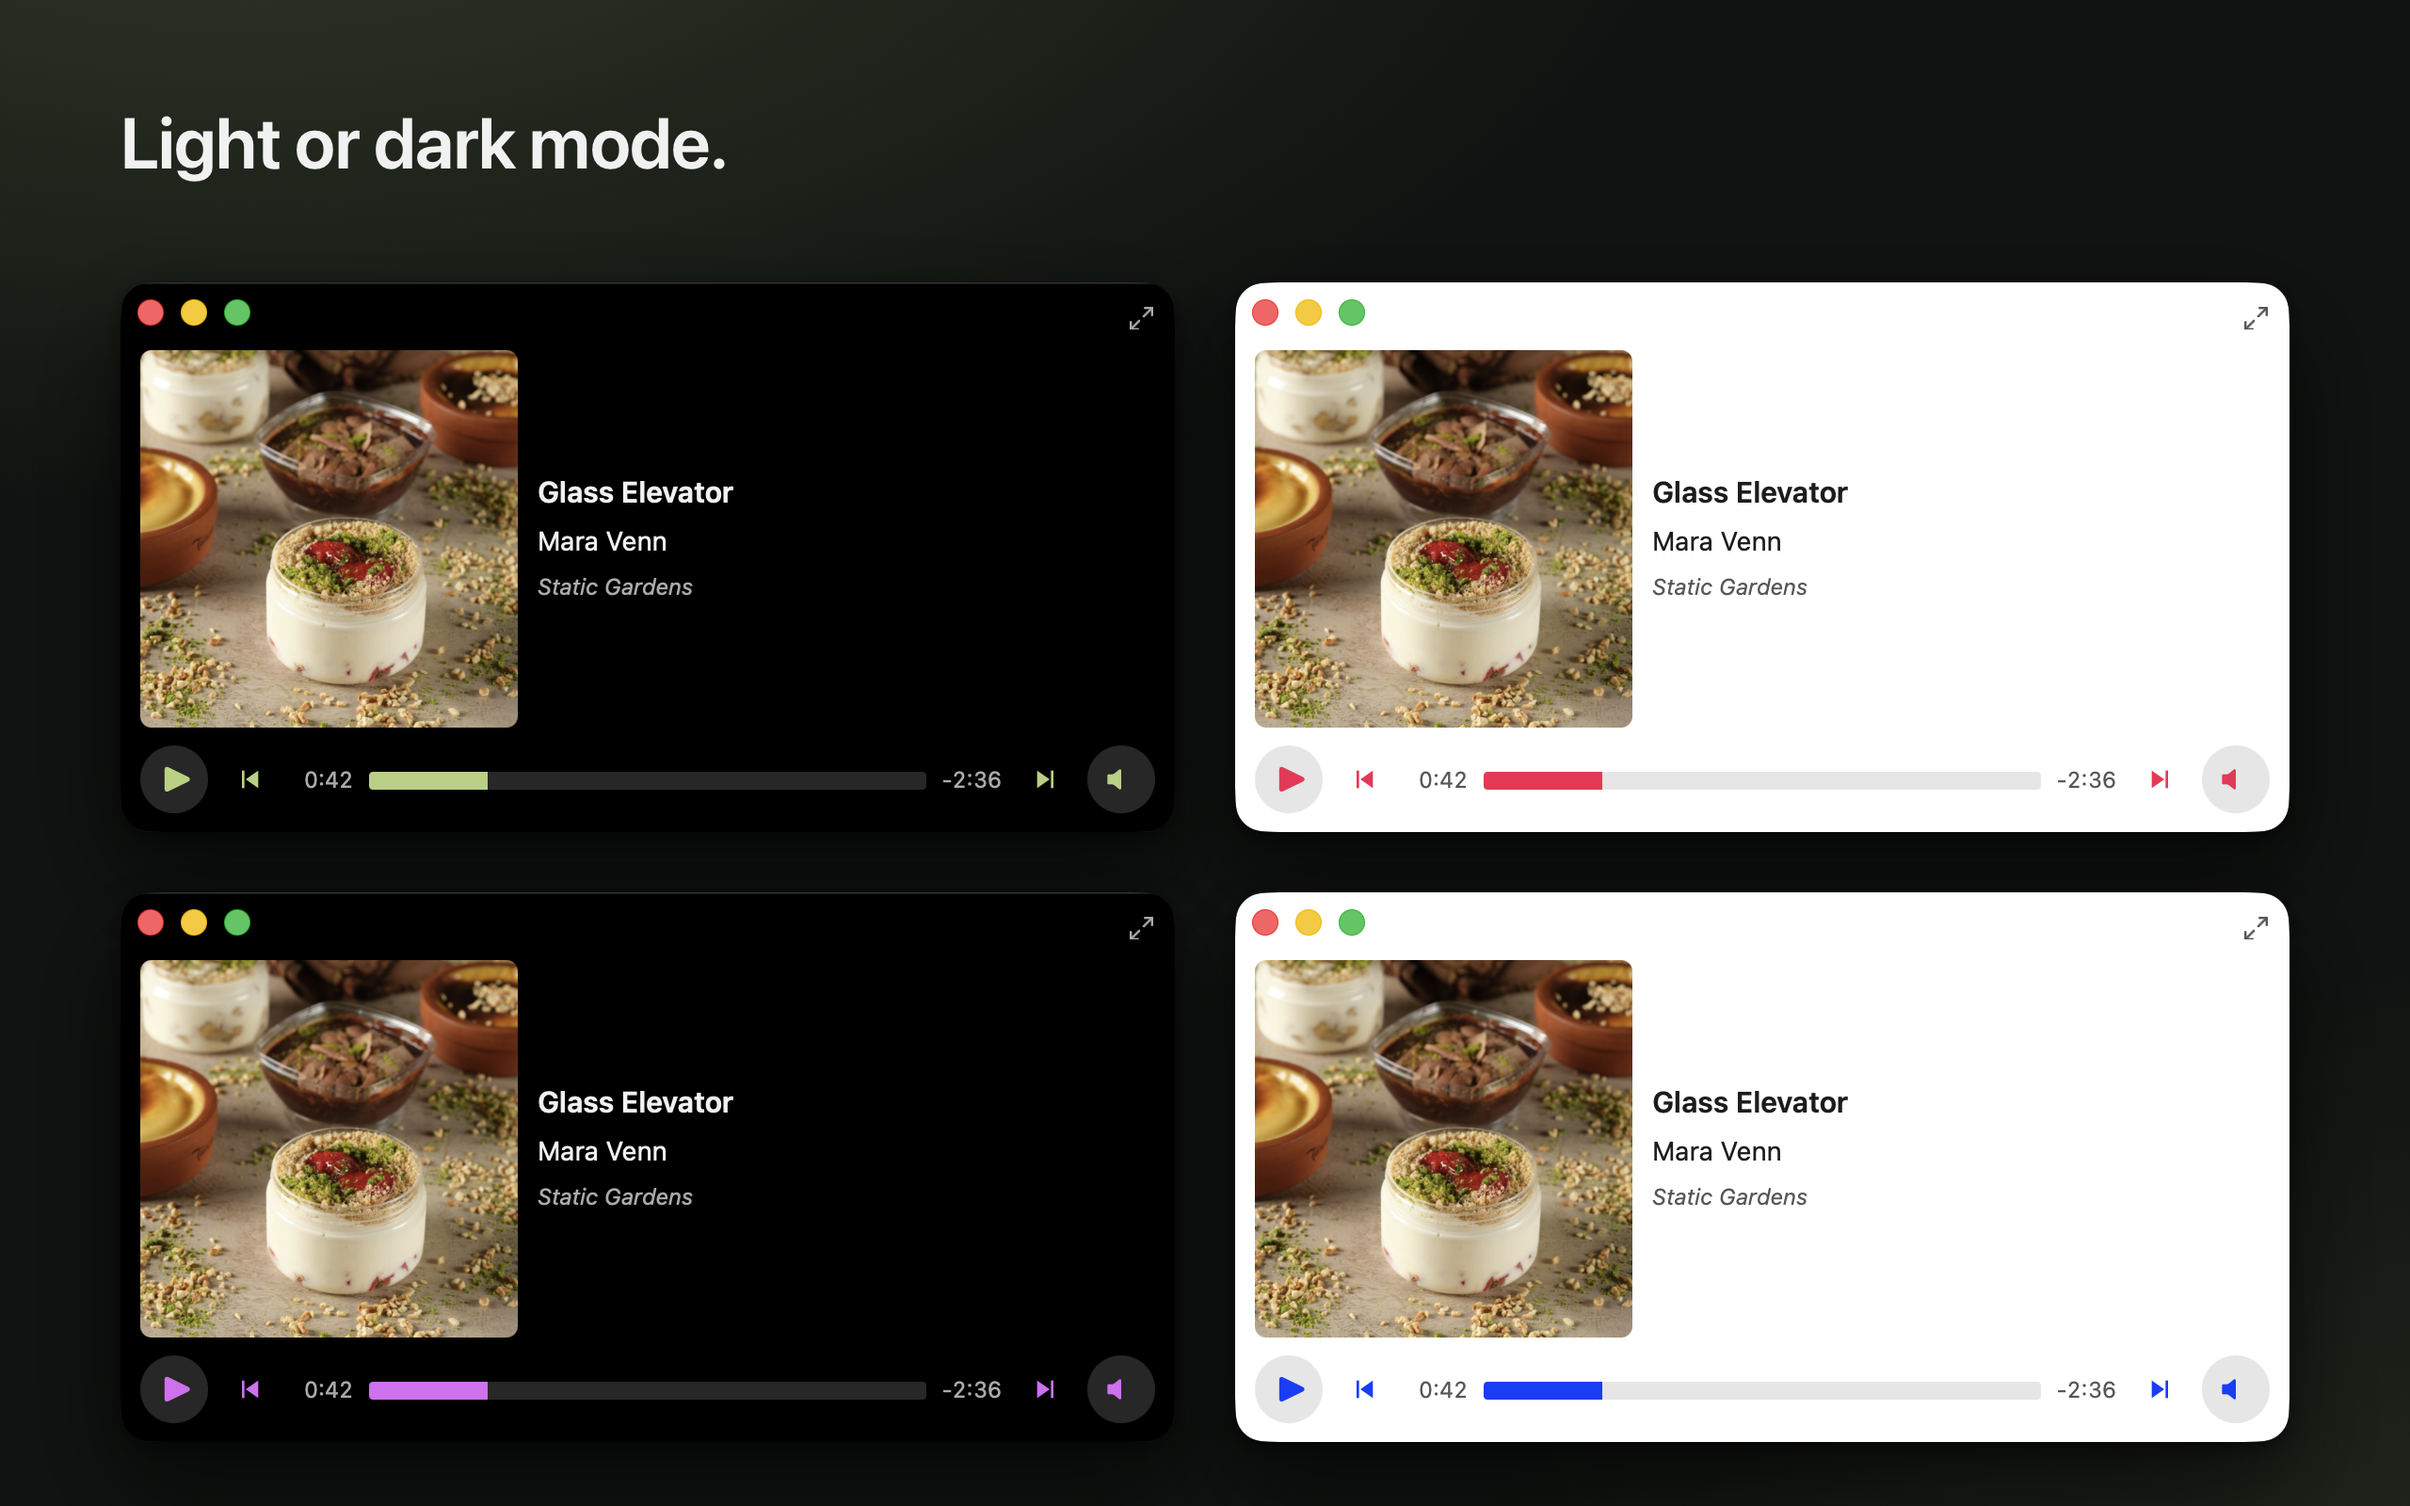
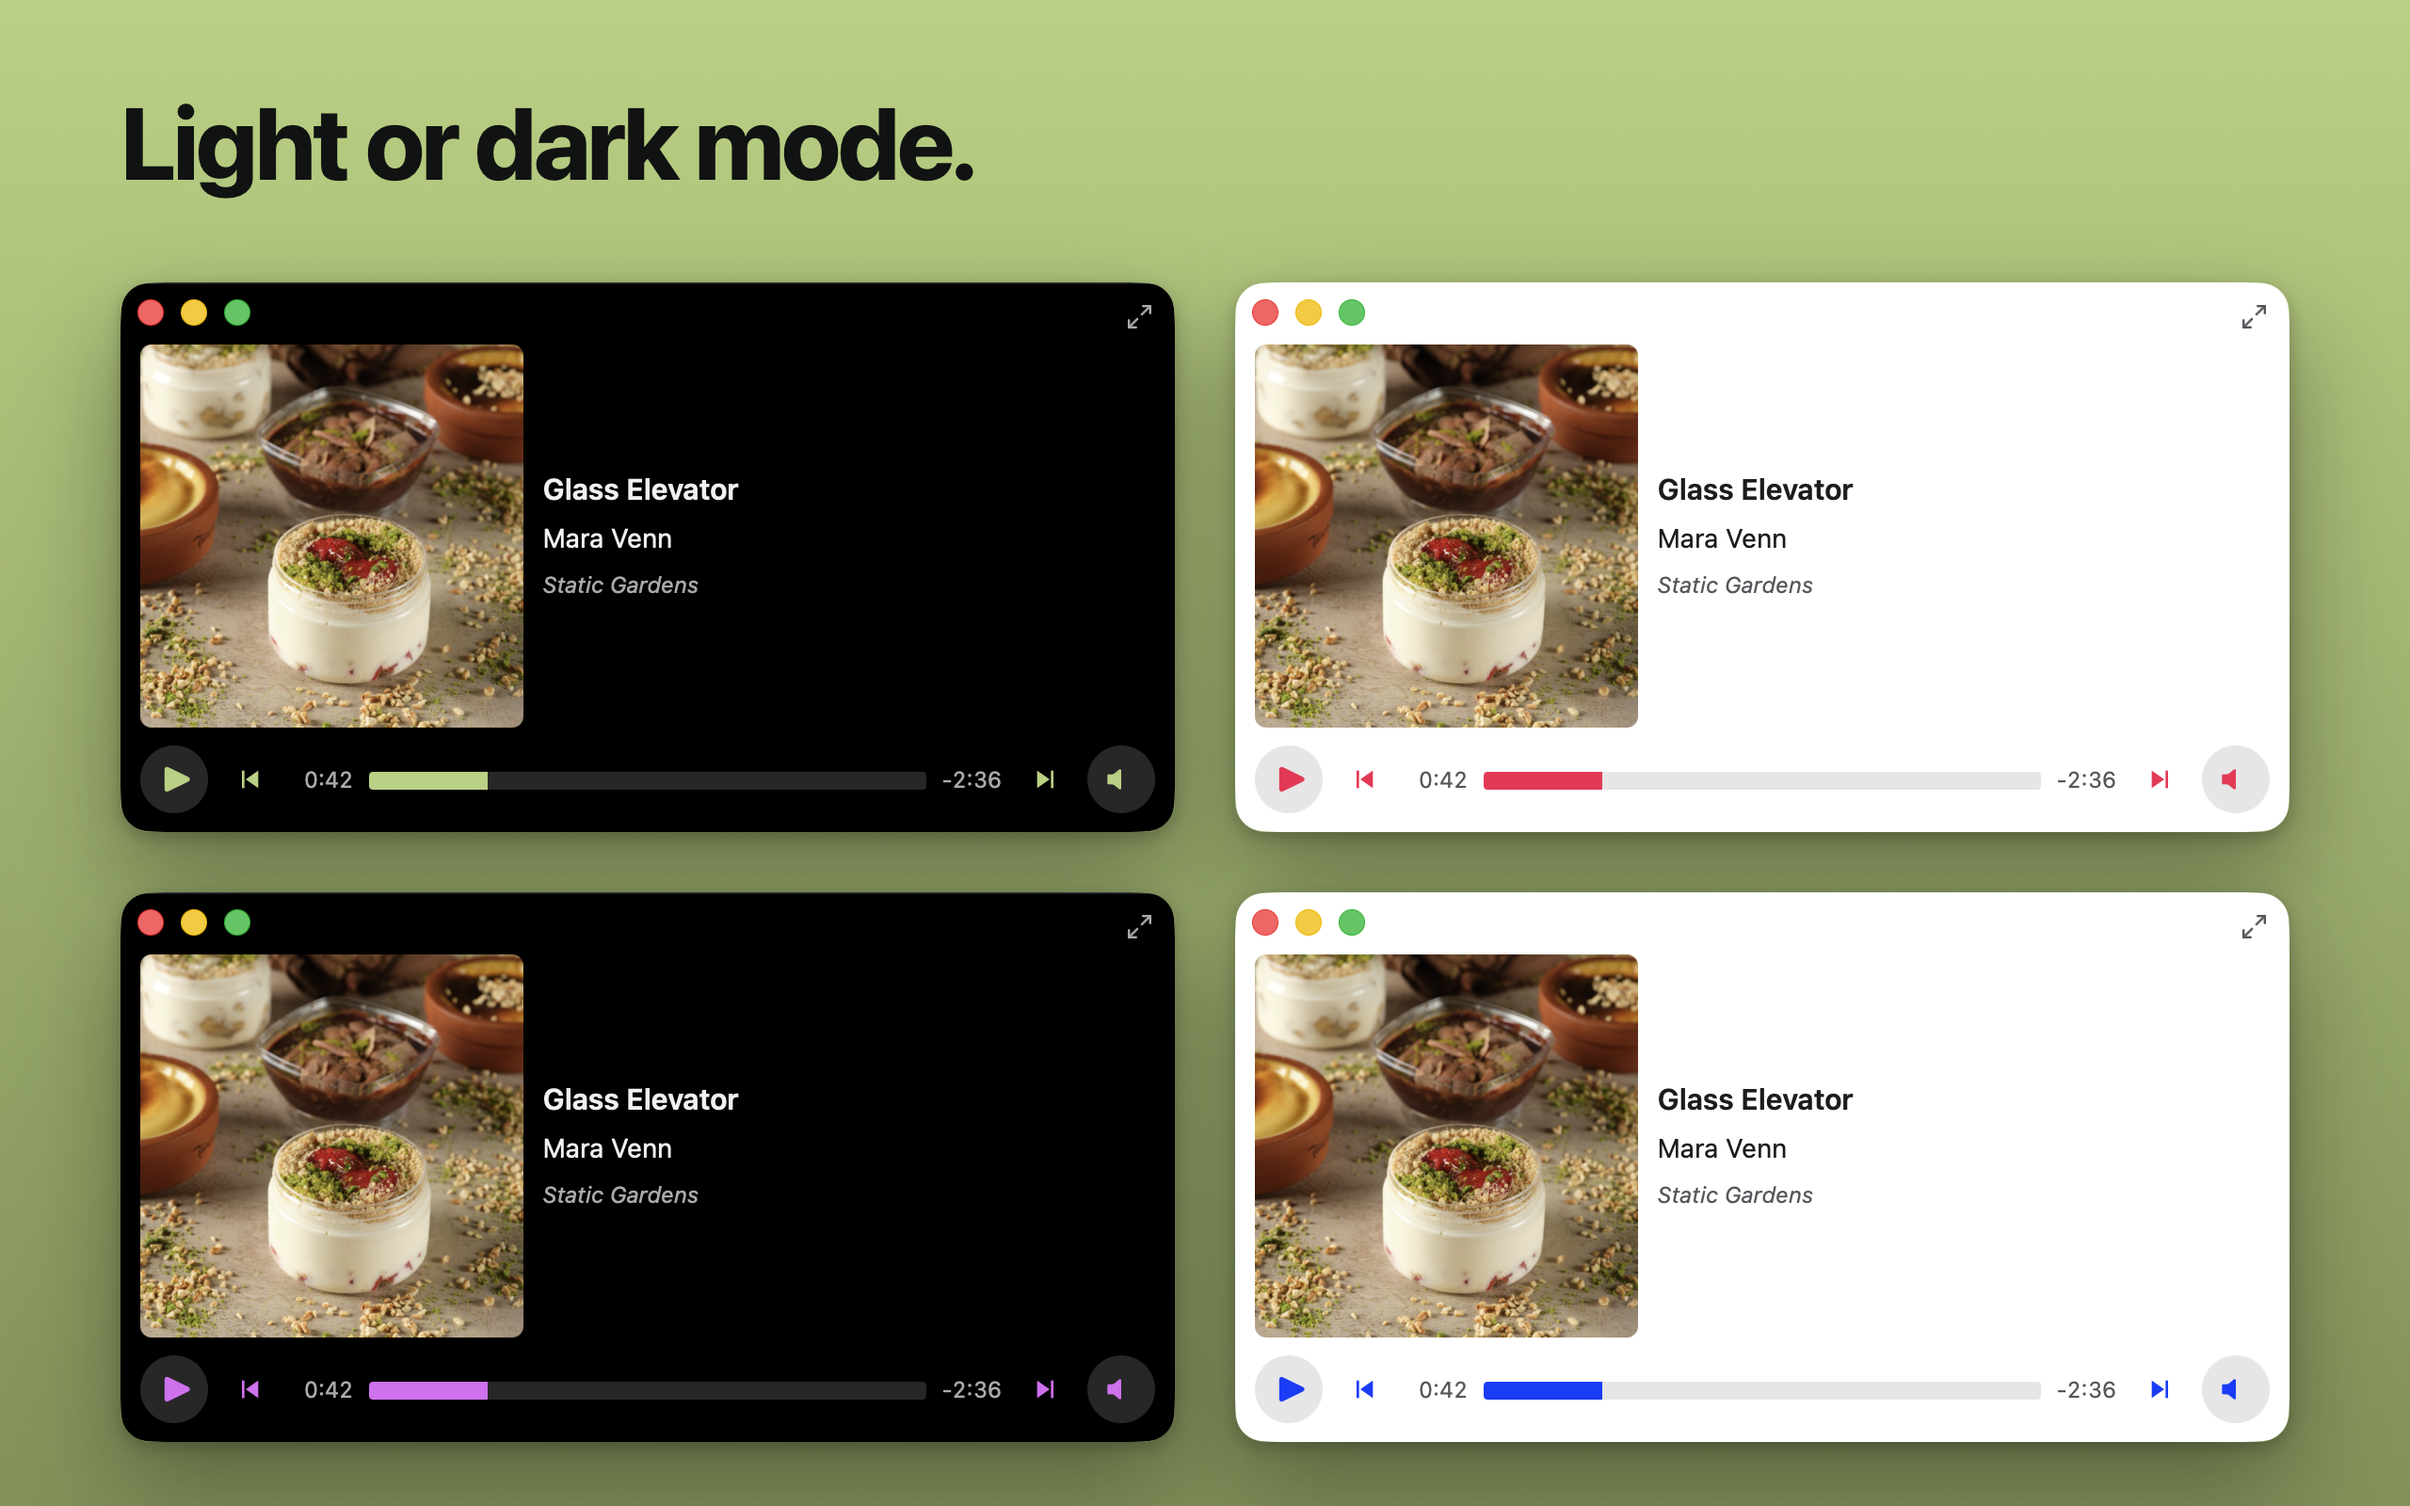
Repaint posters in accent gradient; refresh listing

diff --git a/apps/desktop/app-store/LISTING.md b/apps/desktop/app-store/LISTING.md
@@ -15,17 +15,17 @@ differentiators come before the feature inventory, not after it.
 
 ## App name (30 max)
 
-Pudding
+Pudding Music Player
 
 ## Subtitle (30 max)
 
-Music player for files & radio
+Local files and internet radio
 
 ## Promotional text (170 max)
 
-A music player with the practicality of an oldschool player and the modern style and features of a streaming app.
+Inspired by the classic music players of yesteryear, Pudding has the ease-of-use and polish of a modern app.
 
-## Keywords (100 max, comma separated, no spaces)
+## Keywords (100 max, comma separated, no spaces)s
 
 mp3,flac,alac,m3u,id3,tag,editor,radio,icecast,shoutcast,gapless,equalizer,replaygain,library
 
@@ -38,34 +38,33 @@ mp3,flac,alac,m3u,id3,tag,editor,radio,icecast,shoutcast,gapless,equalizer,repla
 Own your music.
 Play it in Pudding.
 
-It is a player for the audio files already on your Mac — MP3, FLAC, ALAC, AAC, Ogg Vorbis, Opus, WAV, AIFF — and for the internet radio stations you add yourself. There is no catalog, no account, no subscription, and nothing to sign in to. Point it at your folders and it plays what is there.
+Pudding is an audio player for local files. There is no no account, no subscription, and nothing to sign in to.
 
 WHAT MAKES PUDDING DIFFERENT
 
-Most file players hand you a database to maintain. Most modern players hand you a service to join. Pudding takes the conveniences people expect from a streaming app and gives them to the files you own:
+Most file players make you a database maintainer. Most modern players require a paid service. Pudding takes the conveniences people expect from a streaming app and gives them to the files you own:
 
 • No import step. Choose your library folders once. Pudding watches them and picks up what you change on disk, with no manual rescan.
-• Search-first navigation. Press Command-F, type an album name, press Return, and you are in it.
+• Search-first navigation. Press Command-F, type an album name, press Return, and you're there.
 • Relational navigation. Right-click any track to jump to its artist or its album.
-• A first-class queue. Right-click anything to start one, then Play Next or Add to Queue, and drag rows to reorder.
-• Playlists are files, not rows in someone's database. Each one is an ordinary .m3u8 on your disk that autosaves as you edit it and opens in any other player.
-• Tag editing in the app. Fix one file or a whole selection at once, artwork included, then review the update and revert it from the same screen.
-• Six views of one library. Browse the real folder tree, or the same files as Songs, Artists, Albums, Genres, or Decades.
-• Album art is central in the presentation.
+• A first-class queue. Right-click anything to start a queue with drag-and-drop support.
+• Playlists are files. Each one is an ordinary .m3u8 on your disk that autosaves as you edit it and opens in other players.
+• Tag editing in the app. Fix one file or a whole selection at once, artwork included.
+• We love art. Album art is central in the presentation.
 
 PLAYBACK
 
 • Gapless playback from a custom audio engine: consecutive tracks are joined sample to sample in one continuous output stream
 • High-quality resampling, or Match Source Sample Rate to send a 44.1 kHz file to your output device at 44.1 kHz
-• A 10-band equalizer whose bars glow with the real energy in each band
+• A 10-band equalizer
 • ReplayGain volume normalization by track or album, with peak-based clip prevention; untagged files play unchanged
-• Shuffle, repeat off/all/one, and an autoadvance toggle for listening one track at a time
+• Shuffle, repeat off/all/one, and an autoadvance toggle
 
 LIBRARY
 
 • A fast local metadata cache, scanned in the background and tested up to 500,000 tracks
 • Use the default columns or choose your own, with sortable headers
-• Multiple selection, where every menu action — play, queue, add to playlist, edit tags — applies to everything selected
+• Multiple selection, where every menu action applies to everything selected
 • Cloud-friendly: a library in iCloud Drive, Proton Drive, or Dropbox scans without downloading anything, and files whose bytes are not on this Mac are marked "(Not downloaded)" until you play them
 • Drag music in from Finder, or open audio files you double-click there
 
@@ -73,7 +72,6 @@ INTERNET RADIO
 
 • Icecast and SHOUTcast streams with in-band ICY now-playing metadata
 • Your own station list, edited in the app with optional per-station art and saved as a plain .m3u8 you can share or hand-edit
-• Automatic reconnect; pausing disconnects, resuming rejoins the live edge
 
 MAC INTEGRATION
 

diff --git a/TODO.md b/TODO.md
@@ -7,11 +7,11 @@ Sandbox, entitlements, and bookmarked roots are done
 
 ### Distribution signing and packaging
 
-- [ ] Register the explicit App ID `com.incompl.pudding` in the Apple Developer portal.
-- [ ] Create a Mac App Store Connect provisioning profile for that App ID.
-- [ ] Install a valid Mac App Distribution/Apple Distribution signing certificate on the release machine.
-- [ ] Install a valid Mac Installer Distribution certificate on the release machine.
-- [ ] Embed the provisioning profile as `Contents/embedded.provisionprofile` through the MAS Tauri configuration (`bundle.macOS.files`). (The distribution overlay is ready; add the account-specific profile.)
+- [x] Register the explicit App ID `com.incompl.pudding` in the Apple Developer portal.
+- [x] Create a Mac App Store Connect provisioning profile for that App ID.
+- [x] Install a valid Mac App Distribution/Apple Distribution signing certificate on the release machine.
+- [x] Install a valid Mac Installer Distribution certificate on the release machine.
+- [x] Embed the provisioning profile as `Contents/embedded.provisionprofile` through the MAS Tauri configuration (`bundle.macOS.files`). Profile saved at `src-tauri/AppStore.provisionprofile` (gitignored) 2026-10-10; verify it lands in the bundle on the first distribution build.
 - [ ] Supply the real Team ID to the distribution entitlements. The plumbing is
       done (2026-09-26): `tools/gen-distribution-entitlements.sh` derives
       `Entitlements.distribution.plist` from `Entitlements.plist` plus `$TEAM_ID`,
@@ -94,8 +94,8 @@ Sandbox, entitlements, and bookmarked roots are done
 
 ### App Store Connect
 
-- [ ] Create the macOS app record before uploading the first build.
-- [ ] Enter the app name, subtitle, description, keywords, copyright, SKU, primary
+- [x] Create the macOS app record before uploading the first build.
+- [x] Enter the app name, subtitle, description, keywords, copyright, SKU, primary
       language, and matching Music category. Draft copy for the text fields is in
       `apps/desktop/app-store/LISTING.md`; all fields were re-counted 2026-09-26
       and fit (name 7/30, subtitle 30/30 — at the cap, promotional text 113/170,
@@ -104,8 +104,8 @@ Sandbox, entitlements, and bookmarked roots are done
 - [ ] Complete Apple's current age-rating questionnaire.
 - [ ] Declare **No data collected** under App Privacy while the app's current data practices remain unchanged.
 - [ ] Enter the privacy policy URL: <https://puddingisgood.com/privacy/>.
-- [ ] Enter the support URL and support email: <https://puddingisgood.com/support/> and `pudding@incompl.com`.
-- [ ] Enter the marketing URL: <https://puddingisgood.com/>.
+- [x] Enter the support URL and support email: <https://puddingisgood.com/support/> and `pudding@incompl.com`.
+- [x] Enter the marketing URL: <https://puddingisgood.com/>.
 - [ ] Set pricing, tax category, storefront availability (exclude France initially), and release method.
 - [ ] Complete and verify DSA trader status if distributing in the European Union.
 - [ ] Enter complete App Review contact information and the detailed review notes.
